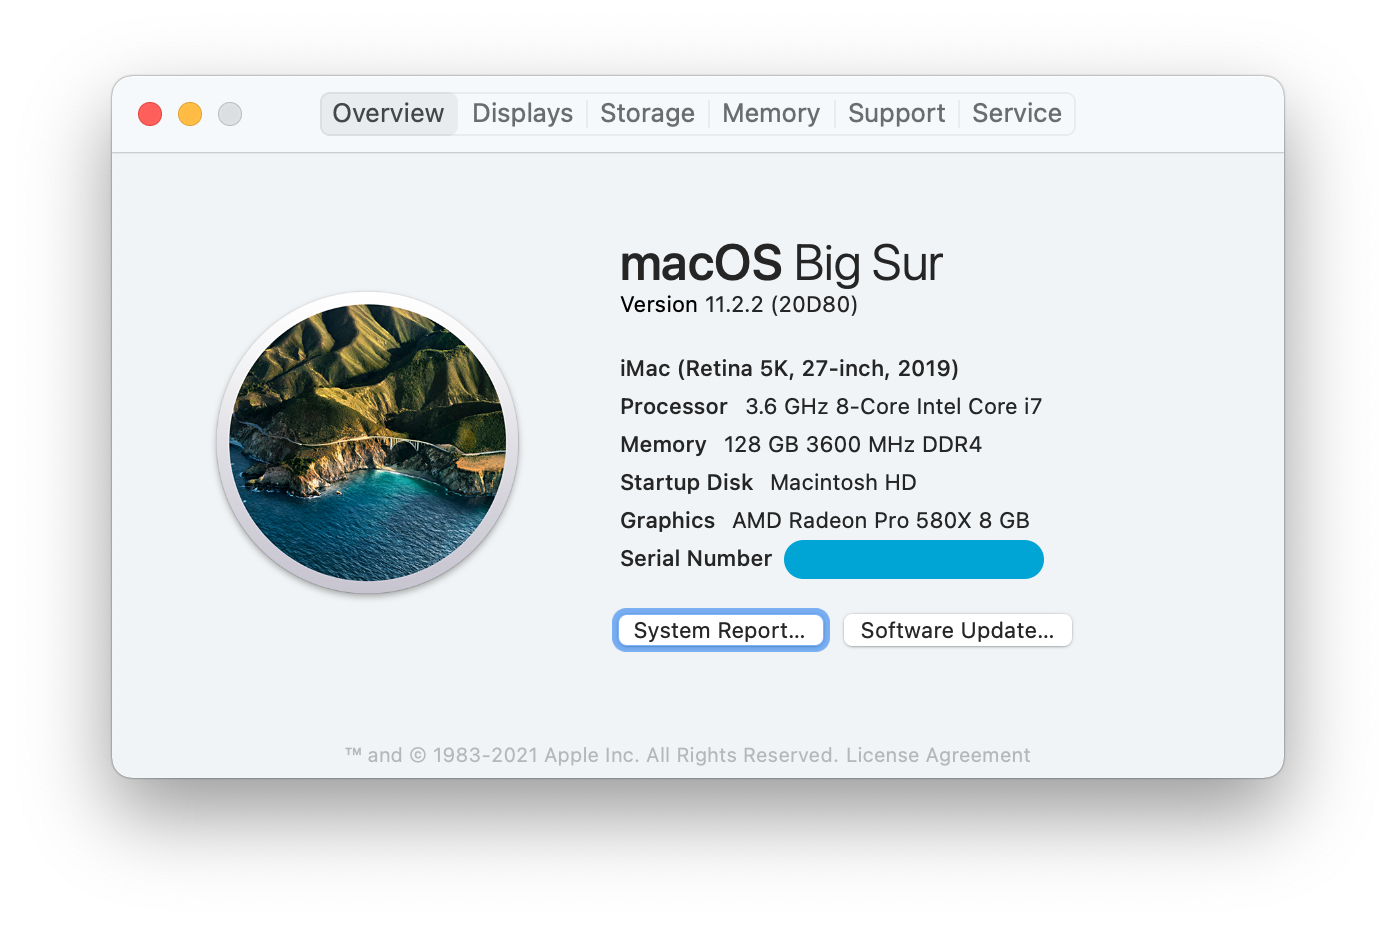
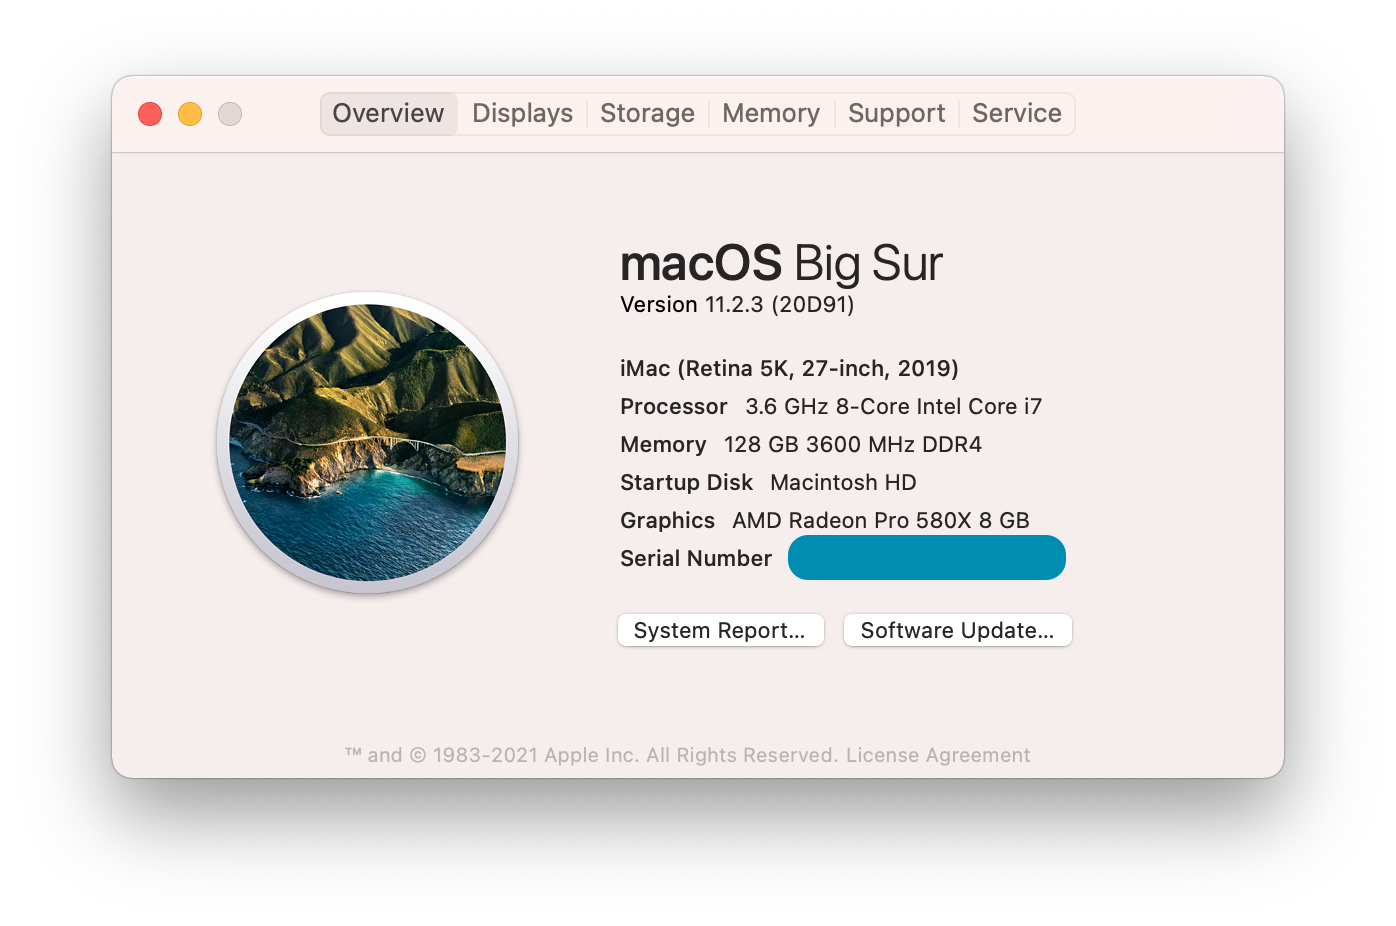
Release 1.7.9

Changed region(s): [[0.4312, 0.5745, 0.7701, 0.7257], [0.5544, 0.3024, 0.616, 0.3326], [0.5852, 0.6652, 0.616, 0.6955]]

diff --git a/README.md b/README.md
@@ -3,7 +3,7 @@
 
 ## Gigabyte Z390M GAMING hackintosh w/ OpenCore
 
-Verified working with macOS version 11.2.2 (20D80) Big Sur and OpenCore 0.6.7.
+Verified working with macOS version 11.2.3 (20D91) Big Sur and OpenCore 0.6.7.
 
 ![System](https://github.com/BenjaminX/Hackintosh-Gigabyte-Z390M-GAMING/blob/master/Tips/About-System.png?raw=true)
 
@@ -15,17 +15,14 @@ Verified working with macOS version 11.2.2 (20D80) Big Sur and OpenCore 0.6.7.
 ![SN/UUID/MLB](https://github.com/BenjaminX/Hackintosh-Gigabyte-Z390M-GAMING/blob/master/Tips/MLBUUIDSN.png?raw=true)
 
 ## Updates
+2021-03-09 / Version 1.7.9
+Verified working with 11.2.3 (20D91) and Optimize the startup speed issues.
+
 2021-03-02 / Version 1.7.8
 Verified working with 11.2.2 (20D80) and Upgrade to OpenCore 0.6.7 / AppleALC 1.5.8 / VirtualSMC 1.2.1 / WhateverGreen 1.4.8.
 
 2021-02-14 / Version 1.7.7
 Verified working with 11.2.2 (20D80).
-
-2021-02-10 / Version 1.7.6
-Verified working with 11.2.1 (20D74), roll back HfsPlus.efi. AGPMInjector.kext for testing.
-
-2021-02-08 / Version 1.7.5
-Upgrade to RadeonBoost.kext V1.6.
 
 [Changelog History](https://github.com/BenjaminX/Hackintosh-Gigabyte-Z390M-GAMING/tree/master/Changelog.txt)
 
